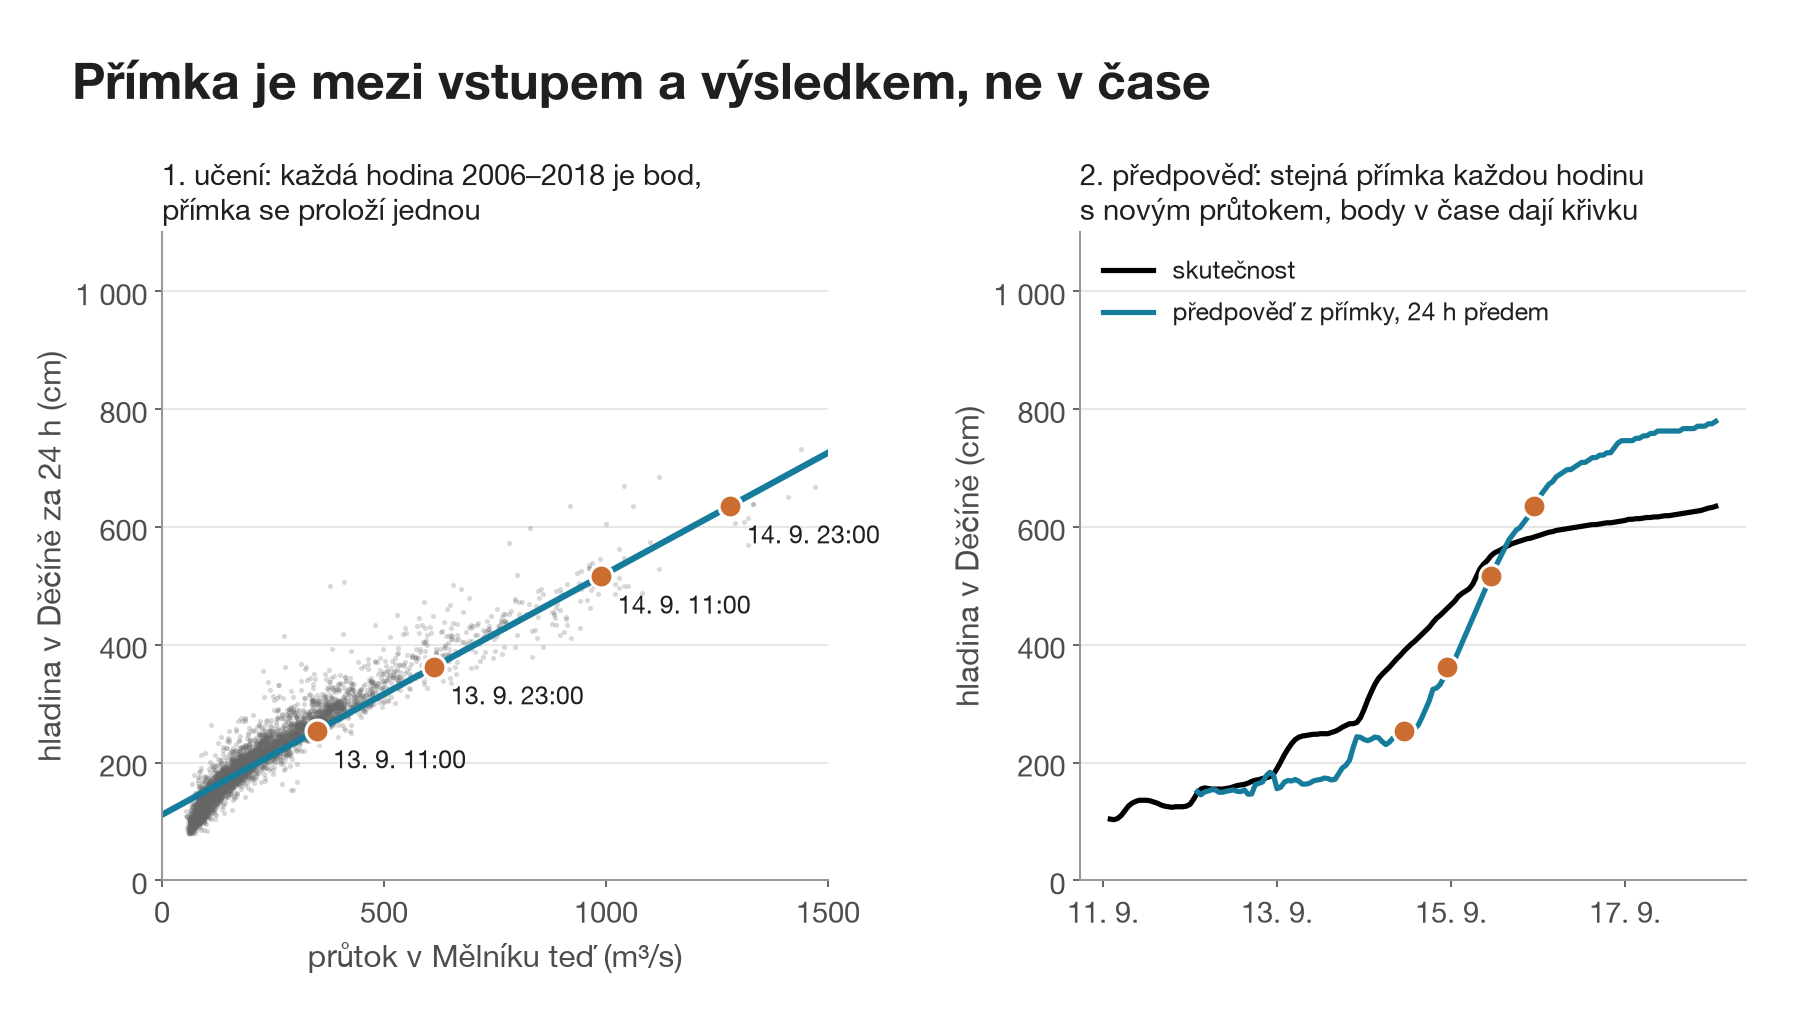
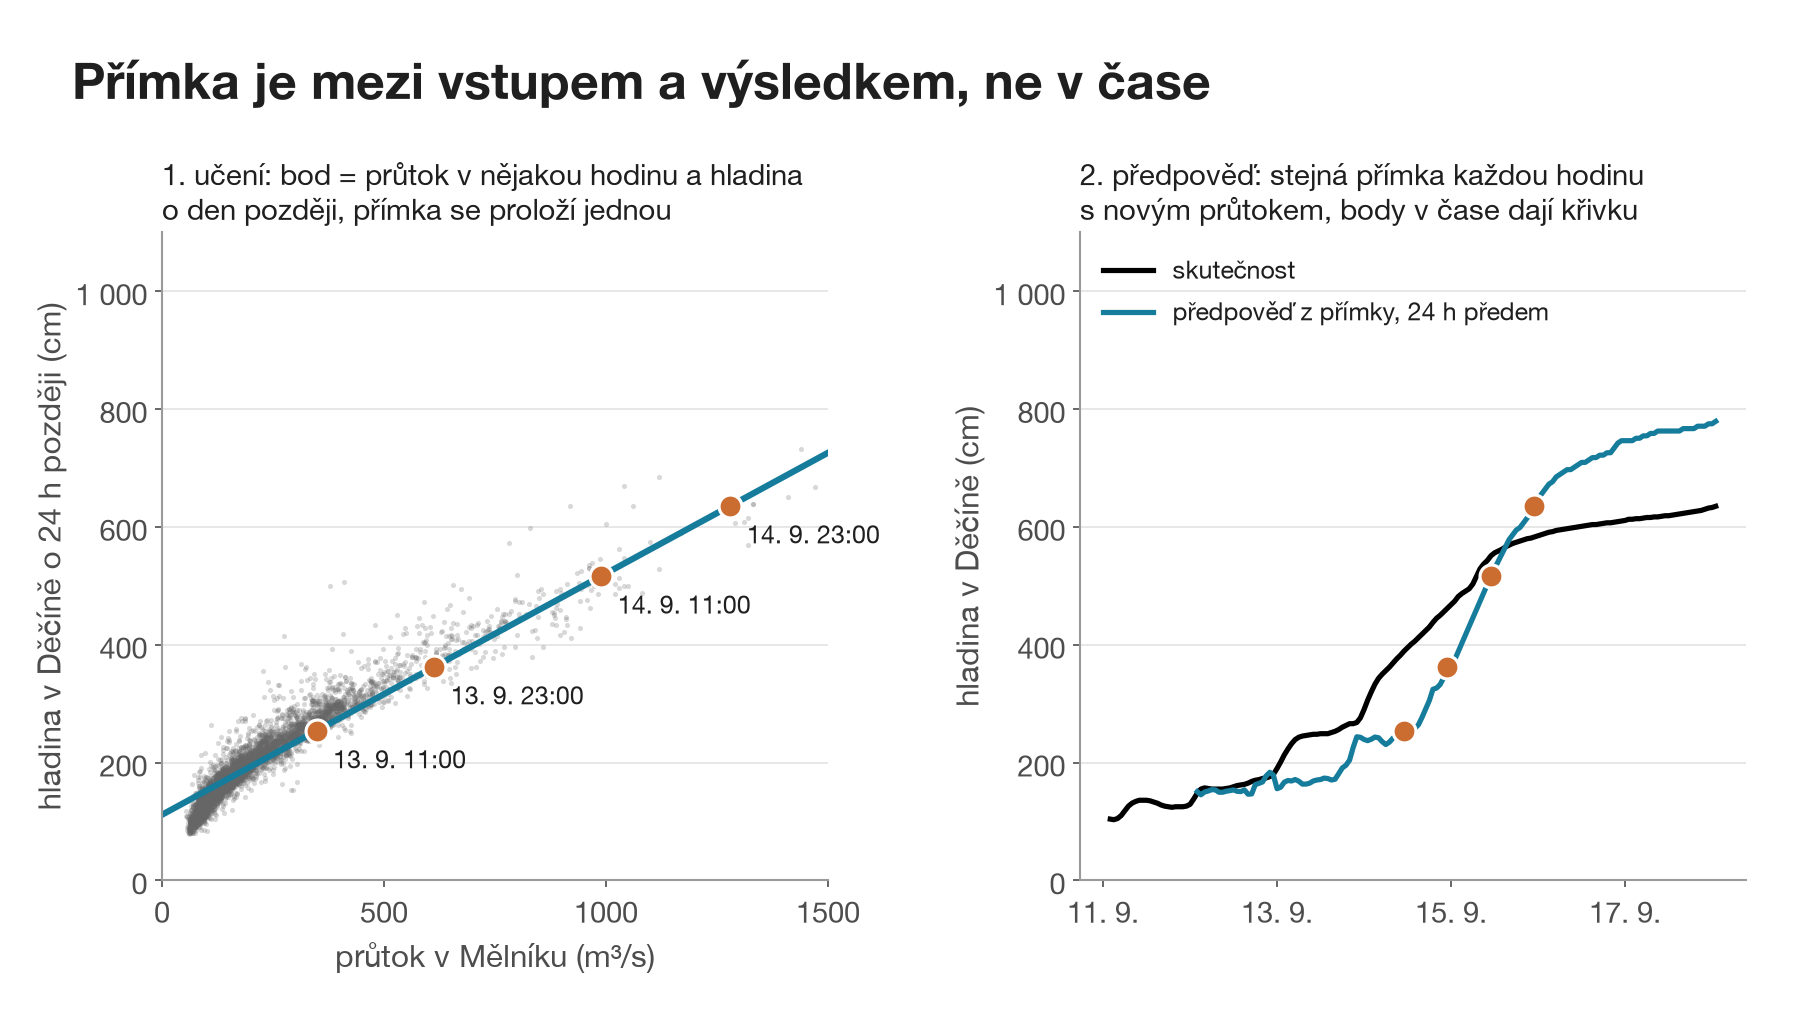
Ondra: záložní slajd Z12, předpověď proti skutečnosti s jedním a s 98 vstupy, jasnější osy v Z11

Changed region(s): [[0.0933, 0.1532, 0.4356, 0.2144], [0.0, 0.3063, 0.0311, 0.7964], [0.1867, 0.919, 0.3733, 0.9802]]

diff --git a/src/graf_primka.py b/src/graf_primka.py
@@ -1,8 +1,11 @@
-"""Kde je v lineární regresi přímka: vlevo učení (každá hodina 2006–2018 je bod, přímka se proloží jednou), vpravo
-stejná přímka použitá hodinu po hodině za Borise, body v čase dají křivku. Zjednodušeně s jedním vstupem
-(průtok v Mělníku teď), skutečný model má 98 vstupů a odmocninu průtoků.
+"""Kde je v lineární regresi přímka, dva záložní slajdy.
 
-python src/graf_primka.py    uloží docs/grafy/prezentace/Z11_primka_a_krivka.png (záložní slajd)
+Z11: vlevo učení s jedním vstupem (každá hodina 2006–2018 je bod: průtok v Mělníku a hladina v Děčíně o 24 h později,
+přímka se proloží jednou), vpravo stejná přímka použitá hodinu po hodině za Borise, body v čase dají křivku.
+Z12: předpověď proti skutečnosti na validaci (hodiny, které model neviděl) s jedním vstupem a s 98 vstupy; když je
+na ose x vážený součet všech vstupů, je model zase přímka a body leží kolem úhlopříčky.
+
+python src/graf_primka.py    uloží docs/grafy/prezentace/Z11_primka_a_krivka.png a Z12_jeden_a_98_vstupu.png
 """
 import matplotlib.dates as mdates
 import matplotlib.pyplot as plt
@@ -37,9 +40,9 @@ for t in body:
     levy.plot(x[t], a + b * x[t], "o", ms=11, color=ORANZ, mec="white", mew=1.5, zorder=3)
     levy.annotate(f"{cesky(t).day}. {cesky(t).month}. {cesky(t):%H:%M}", (x[t], a + b * x[t]), xytext=(8, -18),
                   textcoords="offset points", fontsize=12, color=INK)
-levy.set_title("1. učení: každá hodina 2006–2018 je bod,\npřímka se proloží jednou", fontsize=14, loc="left", color=INK)
-levy.set_xlabel("průtok v Mělníku teď (m³/s)")
-levy.set_ylabel("hladina v Děčíně za 24 h (cm)")
+levy.set_title("1. učení: bod = průtok v nějakou hodinu a hladina\no den později, přímka se proloží jednou", fontsize=14, loc="left", color=INK)
+levy.set_xlabel("průtok v Mělníku (m³/s)")
+levy.set_ylabel("hladina v Děčíně o 24 h později (cm)")
 levy.set_xlim(0, 1500)
 levy.set_ylim(0, 1100)
 levy.xaxis.set_major_locator(MultipleLocator(500))
@@ -65,3 +68,35 @@ fig.savefig(cil, dpi=150)
 print(f"uloženo {cil.relative_to(ROOT)}")
 for t in body:
     print(f"{cesky(t).day}. {cesky(t).month}. {cesky(t):%H:%M}: Mělník {cislo(x[t], 0)} m³/s → {cislo(a + b * x[t], 0)} cm")
+
+
+# Z12: předpověď proti skutečnosti na validaci, Děčín +24 h
+V = pd.read_parquet(ROOT / "results/predpovedi/ridge.parquet")  # index = čas vydání předpovědi, UTC
+V = V[(V.cil == "decin") & (V.horizont == 24)]
+jeden = a + b * x.reindex(V.index)
+fig = plt.figure(figsize=(12, 6.75))
+fig.text(0.04, 0.95, "S 98 vstupy leží body těsně u přímky", fontsize=24, weight="semibold", color=INK, va="top")
+osy = fig.add_axes((0.09, 0.13, 0.37, 0.64)), fig.add_axes((0.6, 0.13, 0.37, 0.64))
+for ax, pred, nazev in zip(osy, (jeden, V.predpoved), ("1 vstup: průtok v Mělníku", "98 vstupů: finální model")):
+    ok = pred.notna()
+    chyba = (pred[ok] - V.skutecnost[ok]).abs().mean()
+    nad = V.skutecnost[ok] >= 400
+    ax.scatter(pred[ok][~nad], V.skutecnost[ok][~nad], s=5, color=SEDA, alpha=0.2, lw=0)
+    ax.scatter(pred[ok][nad], V.skutecnost[ok][nad], s=7, color=ORANZ, alpha=0.5, lw=0)
+    ax.plot([0, 1000], [0, 1000], color=MODRA, lw=2.5)
+    ax.set_title(f"{nazev}\nprůměrná chyba {cislo(chyba)} cm", fontsize=14, loc="left", color=INK)
+    ax.set_xlim(0, 1000)
+    ax.set_ylim(0, 1000)
+    ax.set_xlabel("předpověď na 24 h (cm)")
+    ax.set_ylabel("skutečná hladina o 24 h později (cm)")
+    ax.xaxis.set_major_locator(MultipleLocator(200))
+    ax.yaxis.set_major_locator(MultipleLocator(200))
+    osa_cisla(ax)
+    print(f"Z12 {nazev}: průměrná chyba {chyba:.1f} cm na {ok.sum()} hodinách validace")
+osy[1].scatter([], [], s=40, color=ORANZ, label="nad 1. stupněm (400 cm)")
+osy[1].scatter([], [], s=40, color=SEDA, label="ostatní hodiny")
+osy[1].plot([], [], color=MODRA, lw=2.5, label="přesná předpověď")
+osy[1].legend(loc="upper left", frameon=False, fontsize=12)
+cil = ROOT / "docs/grafy/prezentace/Z12_jeden_a_98_vstupu.png"
+fig.savefig(cil, dpi=150)
+print(f"uloženo {cil.relative_to(ROOT)}")

diff --git a/prezentace/SLAJDY.md b/prezentace/SLAJDY.md
@@ -1,6 +1,6 @@
 # Slajdy a texty řečníků
 
-Devět slajdů na 6:45, rezerva 15 s do 7:00, pak jedenáct záložních. Každý slajd odpovídá na jednu otázku, kterou by porota položila; nadpis slajdu je odpověď a pod ním jsou věci, které musí zaznít. Text řečníka je napsaný tak, jak se říká nahlas, na zhruba 130 slov za minutu. `[mezerník]` je další krok decku. Živé demo neděláme, web otevíráme až při otázkách. Body zadání: 1 co řešíme, 2 data, 3 příprava dat, 4 vstupy, 5 model, 6 ověření, 7 limity.
+Devět slajdů na 6:45, rezerva 15 s do 7:00, pak dvanáct záložních. Každý slajd odpovídá na jednu otázku, kterou by porota položila; nadpis slajdu je odpověď a pod ním jsou věci, které musí zaznít. Text řečníka je napsaný tak, jak se říká nahlas, na zhruba 130 slov za minutu. `[mezerník]` je další krok decku. Živé demo neděláme, web otevíráme až při otázkách. Body zadání: 1 co řešíme, 2 data, 3 příprava dat, 4 vstupy, 5 model, 6 ověření, 7 limity.
 
 | # | Čas | Řečník | Otázka poroty | Nadpis (odpověď) | Bod |
 |---|---|---|---|---|---|
@@ -218,5 +218,11 @@ Web field-zero.netlify.app se otevře rovnou na Dnešku: hladina v Děčíně a 
 
 Graf `grafy/Z11_primka_a_krivka.png`. Odpovídá Ondra.
 
-Přímka je vztah mezi tím, co teče proti proudu, a hladinou v Děčíně, ne tvar v čase. Zjednodušeně s jedním vstupem: vlevo je každá hodina 2006–2018 jeden bod (průtok v Mělníku proti hladině v Děčíně o 24 h později) a přímka se jimi proloží jednou, hladina za 24 h = 111 + 0,41 × průtok v Mělníku. Vpravo se do té samé přímky každou hodinu dosadí nový průtok a body v čase dají křivku. Skutečný model má 98 vstupů, takže místo přímky v rovině je to vážený součet, který nejde nakreslit; pro jednu hodinu ho ukazuje slajd 5. Jedna stanice nestačí: po vrcholu jde jednovstupová přímka na 800 cm, protože nepozná, že voda už nepřibývá.
+Přímka je vztah mezi tím, co teče proti proudu, a hladinou v Děčíně, ne tvar v čase. Zjednodušeně s jedním vstupem: vlevo je každá hodina 2006–2018 jeden bod (průtok v Mělníku v tu hodinu a hladina v Děčíně o 24 h později, protože se učíme dvojice „co víme dnes“ a „co bylo zítra“) a přímka se jimi proloží jednou, hladina za 24 h = 111 + 0,41 × průtok v Mělníku. Vpravo se do té samé přímky každou hodinu dosadí nový průtok a body v čase dají křivku. Skutečný model má 98 vstupů, takže místo přímky v rovině je to vážený součet, který nejde nakreslit; pro jednu hodinu ho ukazuje slajd 5. Jedna stanice nestačí: po vrcholu jde jednovstupová přímka na 800 cm, protože nepozná, že voda už nepřibývá.
+
+### Z12 · Jak je to s přímkou, když je vstupů 98?
+
+Graf `grafy/Z12_jeden_a_98_vstupu.png`. Odpovídá Ondra.
+
+S 98 vstupy nejde nakreslit přímku proti jednomu z nich, potřebovala by 98 os. Když ale na osu x dáme celý vážený součet, tedy předpověď modelu, a na osu y skutečnou hladinu o 24 h později, je model zase přímka a přesná předpověď leží na úhlopříčce. Na validaci (hodiny, které model neviděl, Děčín +24 h): s jediným vstupem (průtok v Mělníku) jsou body rozházené, průměrná chyba 26,5 cm, a nad 1. stupněm se přímka ohýbá vedle; s 98 vstupy leží těsně u úhlopříčky, 7,5 cm. Je to chyba přes všechny hodiny, při povodních je u Děčína na 24 h 15,5 cm (naše hlavní číslo 17,1 cm je průměr přes Děčín, Ústí a 12, 24, 36 h). Každý vstup zvlášť barevně do jednoho grafu dát nejde: mají různé jednotky (cm a m³/s) a přímka patří k jejich součtu, ne k jednomu z nich; po řekách sečtené příspěvky pro jednu hodinu ukazuje slajd 5.
 

diff --git a/prezentace/README.md b/prezentace/README.md
@@ -4,7 +4,7 @@ Všechno k prezentaci na jednom místě. Prezentujeme od 14:30, odevzdání ve 1
 
 | Soubor | Co tam je |
 |---|---|
-| `SLAJDY.md` | každý slajd: čas, řečník, co je na slajdu, graf a text řečníka doslova; záložní slajdy Z1–Z11 s odpovědí |
+| `SLAJDY.md` | každý slajd: čas, řečník, co je na slajdu, graf a text řečníka doslova; záložní slajdy Z1–Z12 s odpovědí |
 | `OTAZKY.md` | 22 otázek poroty s odpovědí a kdo odpovídá |
 | `grafy/` | grafy a obrázky ze slajdů, pojmenované číslem slajdu (`07a_boris_2024.png` patří na slajd 7, `Z…` jsou záložní) |
 
@@ -27,7 +27,7 @@ Každý slajd odpovídá na jednu otázku poroty, nadpis je odpověď.
 | 7 | 4:30–5:25 | Honza | Funguje to doopravdy? | Na všech povodních o polovinu menší chyba, Boris 27 hodin předem |
 | 8 | 5:25–5:55 | Tobias | Co z toho má město? | Z předpovědi mapa: kam až voda dosáhne |
 | 9 | 5:55–6:45 | Tobias | Kde to selže? | Co neumíme a co dál |
-| Z1–Z11 | na otázku | podle otázky | | Proč jen lineární regrese? · Co znamená „bude jako teď“? · Proč ne srážky? · Jak moc se pletete? · Funguje to i na jiné povodni? · Podle čeho model rozhoduje? · Je rozliv hydraulický model? · Jak dopadl test? · Proč jen 36 hodin dopředu? · Jak vypadá aplikace dnes? · Proč je lineární regrese v grafu křivka? |
+| Z1–Z12 | na otázku | podle otázky | | Proč jen lineární regrese? · Co znamená „bude jako teď“? · Proč ne srážky? · Jak moc se pletete? · Funguje to i na jiné povodni? · Podle čeho model rozhoduje? · Je rozliv hydraulický model? · Jak dopadl test? · Proč jen 36 hodin dopředu? · Jak vypadá aplikace dnes? · Proč je lineární regrese v grafu křivka? · Jak je to s přímkou, když je vstupů 98? |
 
 Rezerva je 15 s. Když se nestíhá, na slajdu 7 z druhého odstavce říct jen „na testu i ve vícenásobné validaci je chyba o 55 procent menší“.
 

diff --git a/prezentace/OTAZKY.md b/prezentace/OTAZKY.md
@@ -82,3 +82,6 @@ Hladina zítra je hladina teď plus to, o kolik se za den změní, dnešní voda
 **24. Když je to lineární regrese, proč je předpověď v grafu křivka?** (Ondra, slajd Z11)
 Přímka je vztah mezi vstupy a hladinou, naučí se jednou: zjednodušeně s jedním vstupem hladina za 24 h = 111 + 0,41 × průtok v Mělníku. Každou hodinu do ní dosadíme nová měření a vyjde jeden bod; body za sebou v čase dají křivku. Skutečný model dělá totéž s 98 vstupy najednou (vážený součet, slajd 5).
 
+**25. Jak vypadá ta přímka, když je vstupů 98?** (Ondra, slajd Z12)
+Proti jednomu vstupu ji nakreslit nejde, potřebovala by 98 os. Když na osu x dáme celý vážený součet (předpověď) a na osu y skutečnost, je to zase přímka a body leží těsně u úhlopříčky: na validaci průměrná chyba 7,5 cm proti 26,5 cm s jediným vstupem.
+

diff --git a/docs/grafy/prezentace/README.md b/docs/grafy/prezentace/README.md
@@ -23,6 +23,7 @@
 | záloha | `Z9_doba_dobehu.png` | Za kolik hodin doteče voda do Děčína |
 | záloha | `Z10_aplikace_dnes.png` | (snímek webu na Dnešku, bez nadpisu) |
 | záloha | `Z11_primka_a_krivka.png` | Přímka je mezi vstupem a výsledkem, ne v čase (kreslí `src/graf_primka.py`) |
+| záloha | `Z12_jeden_a_98_vstupu.png` | S 98 vstupy leží body těsně u přímky (kreslí `src/graf_primka.py`) |
 
 Záložní slajd Z7 (rozliv) je snímek mapy `mapbox3_decin.jpg` z HTML decku, ne graf.
 

diff --git a/docs/PREZENTACE_7MIN.md b/docs/PREZENTACE_7MIN.md
@@ -37,6 +37,7 @@ Za poděkováním, ukážou se jen na otázku poroty. Odpovědět rovnou grafem 
 | Z9 | Proč jen 36 hodin dopředu? | `Z9_doba_dobehu.png` |
 | Z10 | Jak vypadá aplikace dnes? | `Z10_aplikace_dnes.png` |
 | Z11 | Proč je předpověď křivka, když je to lineární regrese? | `Z11_primka_a_krivka.png` |
+| Z12 | Jak je to s přímkou, když je vstupů 98? | `Z12_jeden_a_98_vstupu.png` |
 
 ## Grafy
 
